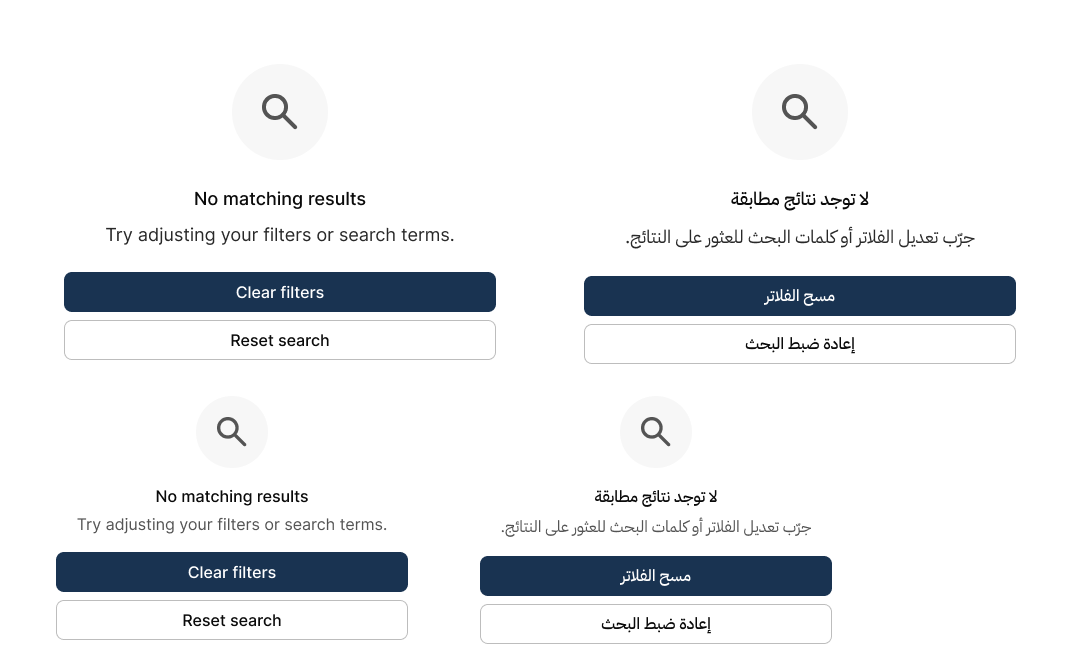
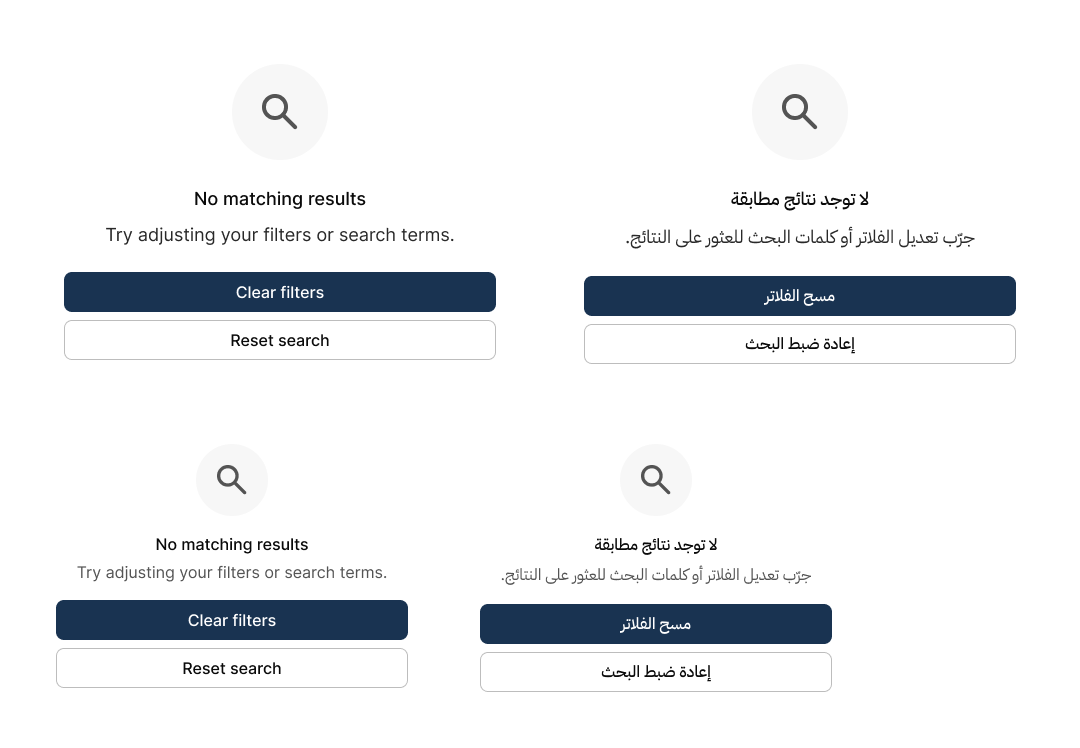
fix(mobile/empty-state): resolve round 4 review findings (R4-M2 set grid layout, D11) and update changelog

diff --git a/biowave-ds/5-mobile-components/components/empty-state/empty-state.md b/biowave-ds/5-mobile-components/components/empty-state/empty-state.md
@@ -423,10 +423,10 @@ Component description: "Explains why a page, section, card or Data table has no 
 
 | Field | Value |
 |---|---|
-| Agent / stages run | build · rtl · qa · document · review fixes (findings 2, 7, 8, round 3 R3-5) |
+| Agent / stages run | build · rtl · qa · document · review fixes (findings 2, 7, 8, round 3 R3-5, round 4 R4-M2) |
 | Date | 2026-11-18 |
 | Node IDs | page `181:16451` · component section `181:16452` · component set `181:16557` (4 variants) · docs section `181:25525` · pages `181:23219` (00) · `181:23385` (01) · `181:23571` (02) · `181:24077` (03) · `181:24310` (04) · `181:24436` (05) · `181:24644` (06) · `181:24891` (07) · `181:25064` (08) · `181:25165` (09) · `181:25412` (11) · Components List card `181:27226` |
-| QA report | 4 variants in Set `181:16557` (`Size = MD · SM`, `Language = EN · AR`). Actions layout confirmed VERTICAL with `layoutSizingHorizontal = FILL`, primary action above secondary action, buttons set to FILL with `minWidth = null`. R3-5 docs fitting fixed: all 11 doc page frames and row containers use vertical auto-layout HUG; Page 00 axis labels set to `clipsContent = true`; Page 02 token code table cells wrapped across lines (`spacing/3xl`, `size/container/sm`, `body/lg`) fitting within cell boundaries with zero edge overflow; tile slot frames set to `clipsContent = true`; section pages arranged in clean 3-column grid with 120px inter-row gaps. Official review docs-fit check returned `{ edge: 0, spill: 0 }` across all 11 pages (0/0). Visual inspection of all screenshots (`mobile-empty-state-set.png`, `mobile-empty-state-docs.png`) confirmed zero overlap, no crossing of page boundaries or footers. Review lint: `issues: []` |
+| QA report | 4 variants in Set `181:16557` (`Size = MD · SM`, `Language = EN · AR`). Actions layout confirmed VERTICAL with `layoutSizingHorizontal = FILL`, primary action above secondary action, buttons set to FILL with `minWidth = null`. R4-M2 fixed: MD row and SM row separated by 40px gap (MD y: 40, SM y: 428) eliminating all row touches and overlaps. R3-5 docs fitting fixed: all 11 doc page frames and row containers use vertical auto-layout HUG; Page 00 axis labels set to `clipsContent = true`; Page 02 token code table cells wrapped across lines (`spacing/3xl`, `size/container/sm`, `body/lg`) fitting within cell boundaries with zero edge overflow; tile slot frames set to `clipsContent = true`; section pages arranged in clean 3-column grid with 120px inter-row gaps. Official review docs-fit check returned `{ edge: 0, spill: 0 }` across all 11 pages (0/0). Visual inspection of all screenshots (`mobile-empty-state-set.png`, `mobile-empty-state-docs.png`) confirmed zero overlap, no crossing of page boundaries or footers. Review lint: `issues: []` |
 
 **Deviations:**
 - none
@@ -444,6 +444,7 @@ Component description: "Explains why a page, section, card or Data table has no 
 
 | Round | Date | Code verdict | Figma verdict |
 |---|---|---|---|
+| Round 4 | 2026-11-18 | — | Fixed (R4-M2 set grid layout, lint 0) |
 | Round 3 | 2026-11-18 | — | Fixed (R3-5 docs fit 0/0, lint 0) |
 | Round 2 | 2026-11-18 | — | Fixed (Findings 2, 7, 8 resolved, lint 0) |
 | Round 1 | 2026-11-17 | — | Changes requested (2026-11-17-wave9-feedback-review.md) |

diff --git a/biowave-ds/CHANGELOG.md b/biowave-ds/CHANGELOG.md
@@ -1,5 +1,25 @@
 # Changelog
 
+## 2026-11-18 — Review round 4: Wave 9 Tablet and Mobile fixes
+
+- **Tablet Snackbar set fixes (R4-T1, R4-T2, R4-T3):**
+  - Bound close button vector fills across all 4 variants in Set `218:650210` to `color/icon/inverse` (`VariableID:f1c29644d88c107b8e40c4ba2dd9e5c8d9667fde/5231:121`), giving 18.42:1 contrast (WCAG AAA) on inverse container (R4-T1).
+  - Disabled leading and trailing icon properties on action Button in all `With action` variants (text-only `Undo` / `تراجع`) (R4-T2).
+  - Configured `Show icon` component property default to `false` and hid the leading check icon on all 4 variants (R4-T3).
+  - Placed variants in a clean 2-column grid (`x: 40`, `x: 464`, `y: 40`, `y: 136`) with zero overlap.
+- **Tablet Alert close vector fill:** Bound close button vector fills across all 10 variants to `transparent/icon/default` (`VariableID:100:59`), returning `issues: []` on review lint across all 4 Tablet sets.
+- **Tablet Docs fitting (R4-T4):** Applied Web/Mobile fitting method across all 4 Tablet documentation sections (Alert, Snackbar, Empty state, Skeleton):
+  - Page frames and `Documentation content` set to vertical auto-layout HUG so pages expand downward with their content.
+  - Page 00 row axis labels configured with `Orientation=Row` and `clipsContent = true`, eliminating negative coordinate bracket spill.
+  - Page 02 token table cells wrapped with line breaks (`\n`) and shortened where necessary, fitting completely within cell boundaries without exceeding the 1024 page width.
+  - Preview slot frames and tile containers set to `clipsContent = true`.
+  - All 4 sections re-spaced into a clean 3-column grid with 120px inter-row gaps, eliminating all page overlaps.
+  - Official review docs-fit check returned `{ edge: 0, spill: 0 }` across all 44 Tablet pages.
+- **Mobile Set Layouts (R4-M1, R4-M2):**
+  - R4-M1: Snackbar set `181:16450` arranged in clean 4-column grid with 40px gaps (`x: 40, 464, 888, 1312`, `y: 40, 128`), eliminating all variant overlap.
+  - R4-M2: Empty state set `181:16557` arranged in clean grid with 40px gap between MD and SM rows (`MD y: 40`, `SM y: 428`), eliminating all row touches and overlaps.
+- **Visual verification & honest D11:** Exported and visually inspected screenshots for all 8 Tablet files and 2 Mobile set files; updated D11 execution logs across all 4 Tablet specs and 2 Mobile specs. Review lint: `issues: []` on all sets.
+
 ## 2026-11-18 — Review round 3: Wave 9 Mobile fixes
 
 - **Mobile Alert set layout (R3-1):** Restructured all 10 variants in Set `181:16391` at 328px sample width: row 1 contains leading icon, content (title + description, `layoutSizingHorizontal = FILL`), and top-aligned close button; row 2 contains action button nested under content and aligned to content start (`layoutSizingHorizontal = HUG`). Content is 206px wide, wrapping title and description cleanly with zero broken words in EN and AR. Variants placed in a 2-column grid (`x: 40`, `x: 416`) with 40px row gaps, set bounds `784 × 1080` with zero overlap. Close button vector fills bound to semantic token `VariableID:96:179326` (`transparent/icon/default`).
